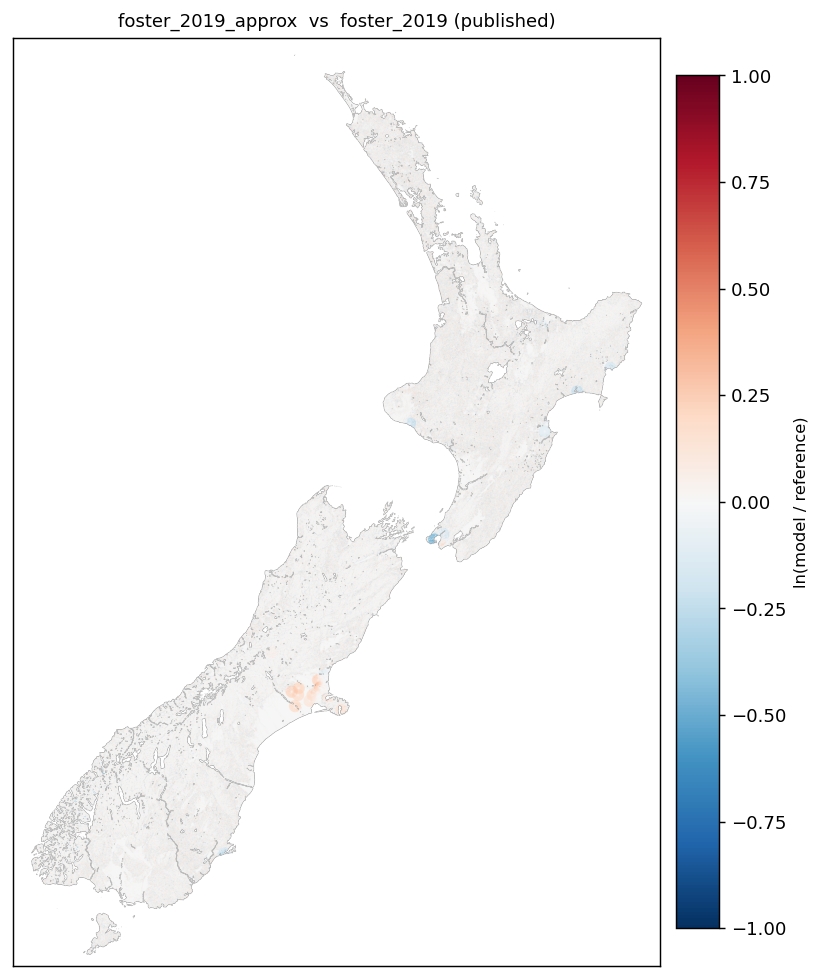
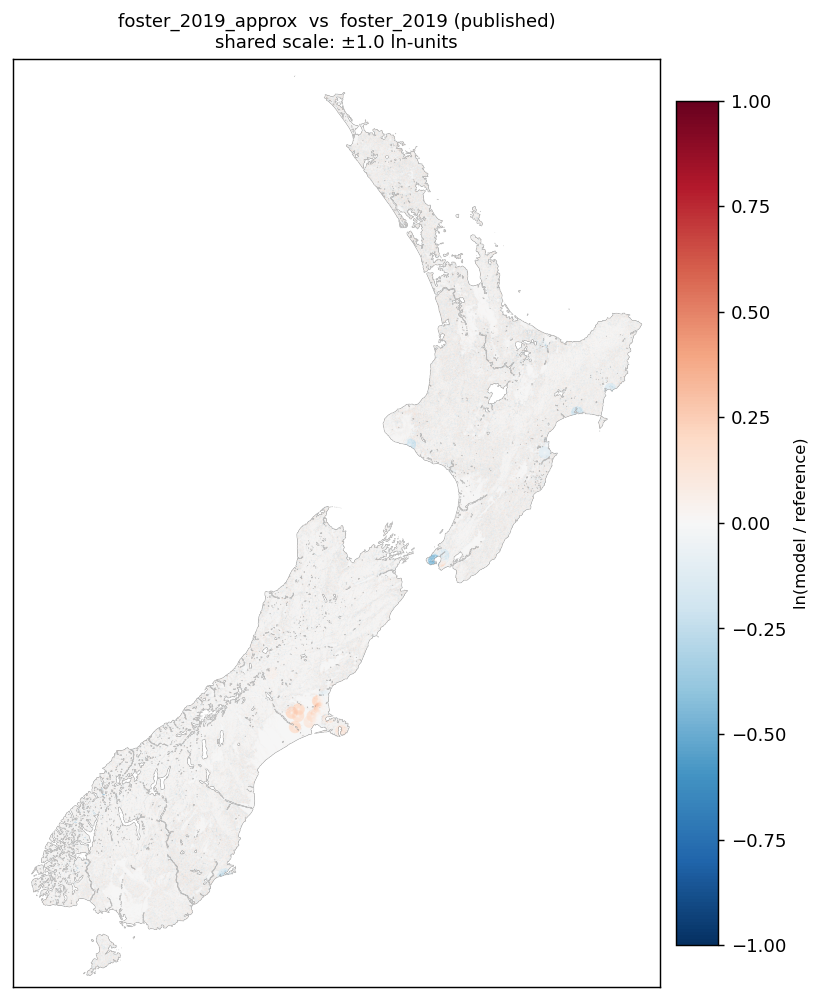
docs(wiki): add autoscaled single-model diff variants
Each model now has two single-panel PNGs linked from Home.md: the
shared-scale variant (±1.0 ln-units, matches the composite figure) for
cross-model comparison, and an autoscaled variant (±|percentile|
per-panel) that exposes within-model detail such as MVN residuals near
observation sites, which would be invisible on the shared scale.

diff --git a/dev/scripts/generators/render_example_model_maps.py b/dev/scripts/generators/render_example_model_maps.py
@@ -63,6 +63,7 @@ REF_CMAP = "turbo"
 DIFF_CMAP = "RdBu_r"
 REF_PERCENTILE_CLIP = (1.0, 99.0)
 DIFF_SYMMETRIC_LIMIT = 1.0  # ln-units; ≈ factor 2.72 each way
+DIFF_AUTOSCALE_PERCENTILE = (1.0, 99.0)
 
 
 def _masked_from_array(data: np.ndarray, nodata: float | None) -> np.ma.MaskedArray:
@@ -198,20 +199,34 @@ def render_reference(ref: np.ma.MaskedArray, ref_extent: tuple) -> Path:
     return out_path
 
 
+def autoscale_limit(diff: np.ma.MaskedArray) -> float:
+    """Symmetric ln-units limit set by the larger of |p1| and p99 of the diff."""
+    valid = diff.compressed()
+    lo, hi = np.percentile(valid, DIFF_AUTOSCALE_PERCENTILE)
+    return float(max(abs(lo), abs(hi)))
+
+
 def render_single_diff(
-    name: str, diff: np.ma.MaskedArray, ref_extent: tuple
+    name: str,
+    diff: np.ma.MaskedArray,
+    ref_extent: tuple,
+    limit: float,
+    suffix: str,
+    subtitle: str,
 ) -> Path:
     fig, ax = plt.subplots(figsize=(6.5, 8.5), dpi=130)
-    norm = mcolors.Normalize(vmin=-DIFF_SYMMETRIC_LIMIT, vmax=DIFF_SYMMETRIC_LIMIT)
+    norm = mcolors.Normalize(vmin=-limit, vmax=limit)
     im = ax.imshow(diff, cmap=DIFF_CMAP, norm=norm, extent=ref_extent, origin="upper")
-    ax.set_title(f"{MODELS[name]['title']}  vs  {REFERENCE['label']}", fontsize=10)
+    ax.set_title(
+        f"{MODELS[name]['title']}  vs  {REFERENCE['label']}\n{subtitle}", fontsize=10
+    )
     ax.set_xticks([])
     ax.set_yticks([])
     ax.set_aspect("equal")
     cbar = fig.colorbar(im, ax=ax, shrink=0.8, pad=0.02)
     cbar.set_label("ln(model / reference)", fontsize=9)
     fig.tight_layout()
-    out_path = OUTPUT_DIR / f"{name}_diff.png"
+    out_path = OUTPUT_DIR / f"{name}_diff{suffix}.png"
     fig.savefig(out_path, bbox_inches="tight")
     plt.close(fig)
     return out_path
@@ -249,8 +264,25 @@ def main() -> None:
     print(f"Wrote {ref_png.relative_to(REPO_ROOT)}")
 
     for name, diff in diffs.items():
-        single = render_single_diff(name, diff, ref_extent)
-        print(f"Wrote {single.relative_to(REPO_ROOT)}")
+        shared = render_single_diff(
+            name,
+            diff,
+            ref_extent,
+            limit=DIFF_SYMMETRIC_LIMIT,
+            suffix="",
+            subtitle=f"shared scale: ±{DIFF_SYMMETRIC_LIMIT:.1f} ln-units",
+        )
+        print(f"Wrote {shared.relative_to(REPO_ROOT)}")
+        lim = autoscale_limit(diff)
+        auto = render_single_diff(
+            name,
+            diff,
+            ref_extent,
+            limit=lim,
+            suffix="_autoscale",
+            subtitle=f"auto scale: ±{lim:.2f} ln-units (1–99th percentile)",
+        )
+        print(f"Wrote {auto.relative_to(REPO_ROOT)}")
 
     composite = render_composite(ref, ref_extent, diffs)
     print(f"Wrote {composite.relative_to(REPO_ROOT)}")

diff --git a/wiki/Home.md b/wiki/Home.md
@@ -48,12 +48,22 @@ lower Vs30 (softer ground). Zero (white) means agreement.
 | `jaehwi_v1p0` | 671 independent (McGann 276 + Wotherspoon 36 + Kaiser 359) | Live Bayesian update from raw priors | Reproduces Jaehwi's v1.0 output. GID 4 alluvium slope modification is off. |
 | `viktor_cpt_clustering` | ~35 700 CPT-derived (DBSCAN-clustered) | Live Bayesian update from raw priors | CPT-derived Vs30 across Canterbury and central NZ pulls those regions toward lower values — visible as the widespread blue in the diff panel. |
 
-Higher-resolution maps:
-[reference foster_2019](images/reference_foster_2019.png),
-[foster_2019_approx diff](images/foster_2019_approx_diff.png),
-[modified_foster_2019 diff](images/modified_foster_2019_diff.png),
-[jaehwi_v1p0 diff](images/jaehwi_v1p0_diff.png),
-[viktor_cpt_clustering diff](images/viktor_cpt_clustering_diff.png).
+Higher-resolution maps. Each model links to two single-panel diff
+variants: the **shared-scale** version uses the same ±1.0 ln-units
+colourbar as the composite above (so models remain directly comparable),
+and the **autoscaled** version rescales to each panel's 1st–99th
+percentile so small within-model features (e.g. MVN residuals near
+observation sites) become visible.
+
+- Reference: [foster_2019 (published)](images/reference_foster_2019.png)
+- foster_2019_approx: [shared scale](images/foster_2019_approx_diff.png) ·
+  [autoscaled](images/foster_2019_approx_diff_autoscale.png)
+- modified_foster_2019: [shared scale](images/modified_foster_2019_diff.png) ·
+  [autoscaled](images/modified_foster_2019_diff_autoscale.png)
+- jaehwi_v1p0: [shared scale](images/jaehwi_v1p0_diff.png) ·
+  [autoscaled](images/jaehwi_v1p0_diff_autoscale.png)
+- viktor_cpt_clustering: [shared scale](images/viktor_cpt_clustering_diff.png) ·
+  [autoscaled](images/viktor_cpt_clustering_diff_autoscale.png)
 
 ## Reference Pages
 
